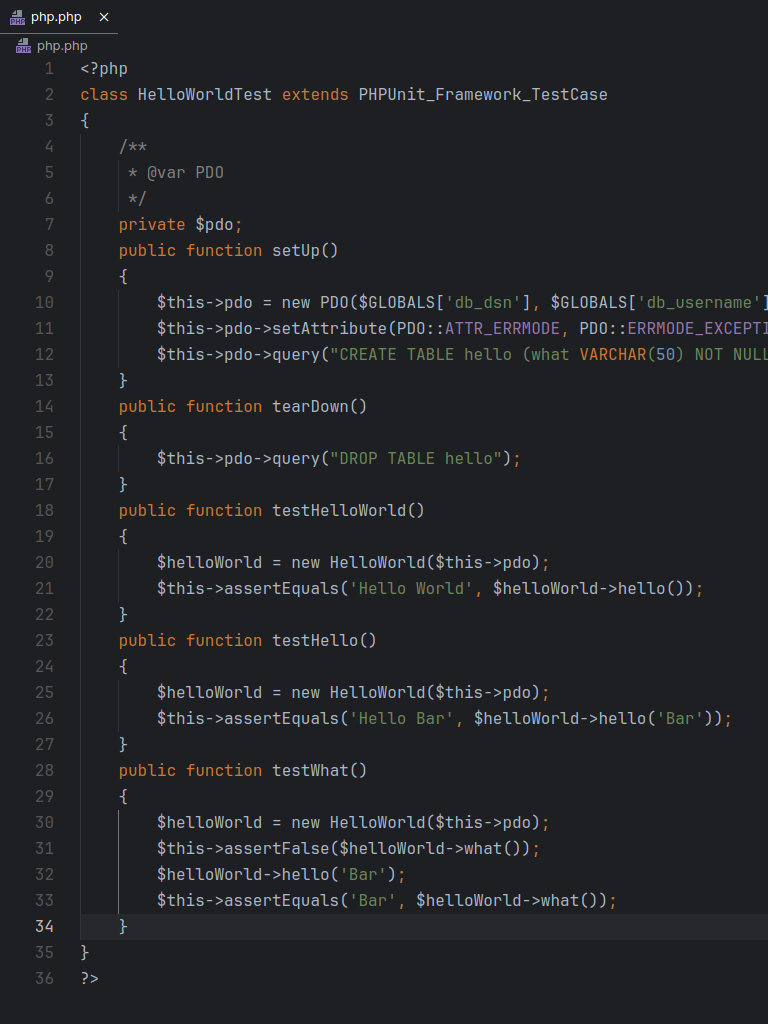
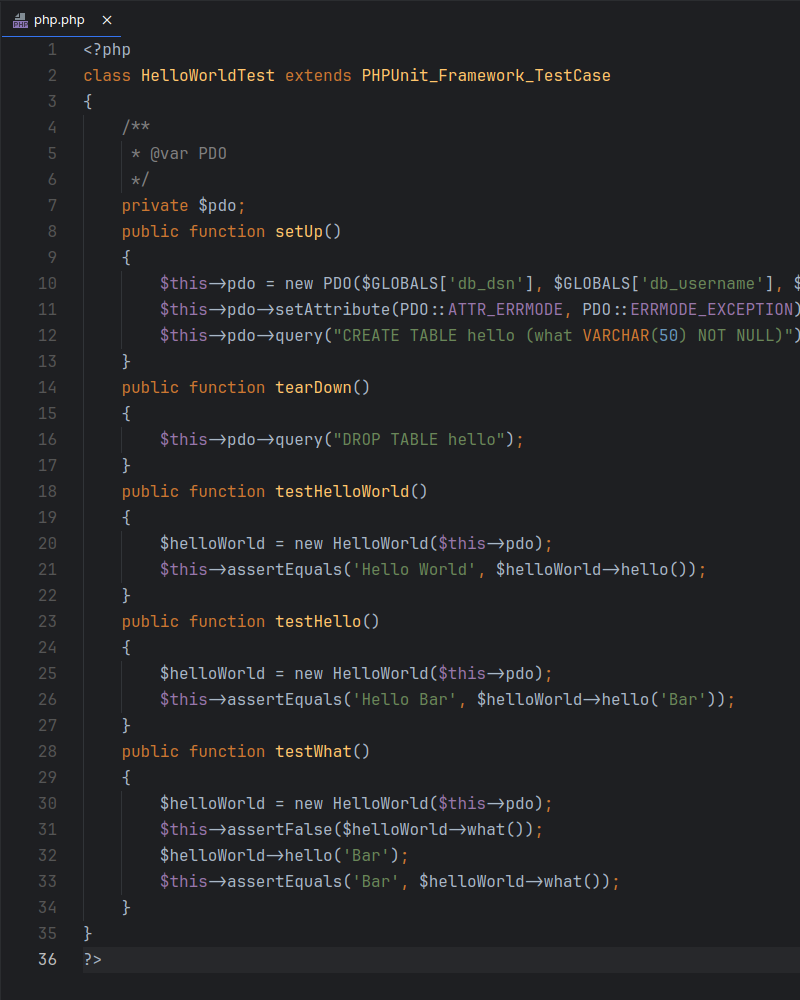
improve syntax highlight

diff --git a/README.md b/README.md
@@ -4,15 +4,29 @@ Neo Dark is a theme based on the IntelliJ's New UI Dark theme, the idea is to ma
 
 The Icon Theme used in the UI screenshots is [JetBrains Icons Enhanced](https://marketplace.visualstudio.com/items?itemName=BrennonDenny.vsc-jetbrains-icons-enhanced)
 
-You can add some or all of the following lines to your settings.json file to make it look more similar, but it can have its drawbacks.
+The font is **Jetbrains Mono**, you can download this from the official site [here](https://www.jetbrains.com/lp/mono/).
+
+You can add some or all of the following lines to your settings.json file to make it look more similar.
 ```
     "editor.bracketPairColorization.enabled": false,
-    "breadcrumbs.enabled": false,
+    "editor.fontFamily": "'jetbrains mono','monospace', monospace",
+    "editor.fontLigatures": true,
     "window.menuBarVisibility": "toggle",
     "window.titleBarStyle": "custom",
     "editor.minimap.enabled": false,
-
+    "breadcrumbs.enabled": false,
 ```
+
+## Support Languajes
+ 
+This theme is under development, it has been tested in some languages and works correctly, obviously we cannot guarantee that it works perfectly, if you find any error you can tell me so I can try to fix it.
+
+Some languages or technologies where it has been tested are:
+
+* Javascript, CSS, HTML, Python, Java, C#, PHP
+* Flutter(dart), React, JSON
+
+Technically it can work in most languages that support the textmate color scheme.
 
 ## UI Screenshots
 
@@ -57,9 +71,25 @@ You can add some or all of the following lines to your settings.json file to mak
     ![java](https://raw.githubusercontent.com/hyperdarker/intellij-neo-dark-theme/main/assets/screenshots/java.png)
 ](https://raw.githubusercontent.com/hyperdarker/intellij-neo-dark-theme/main/assets/screenshots/java.png)
 
+### C#
+
+[
+    ![cs](https://raw.githubusercontent.com/hyperdarker/intellij-neo-dark-theme/main/assets/screenshots/cs.png)
+](https://raw.githubusercontent.com/hyperdarker/intellij-neo-dark-theme/main/assets/screenshots/cs.png)
+
+
 ### PHP
 
 [![php](https://raw.githubusercontent.com/hyperdarker/intellij-neo-dark-theme/main/assets/screenshots/php.png)](https://raw.githubusercontent.com/hyperdarker/intellij-neo-dark-theme/main/assets/screenshots/php.png)
+
+### JSON
+
+[![react](https://raw.githubusercontent.com/hyperdarker/intellij-neo-dark-theme/main/assets/screenshots/react.png)](https://raw.githubusercontent.com/hyperdarker/intellij-neo-dark-theme/main/assets/screenshots/react.png)
+
+### JSON
+
+[![flutter](https://raw.githubusercontent.com/hyperdarker/intellij-neo-dark-theme/main/assets/screenshots/flutter.png)](https://raw.githubusercontent.com/hyperdarker/intellij-neo-dark-theme/main/assets/screenshots/flutter.png)
+
 
 ### JSON
 
